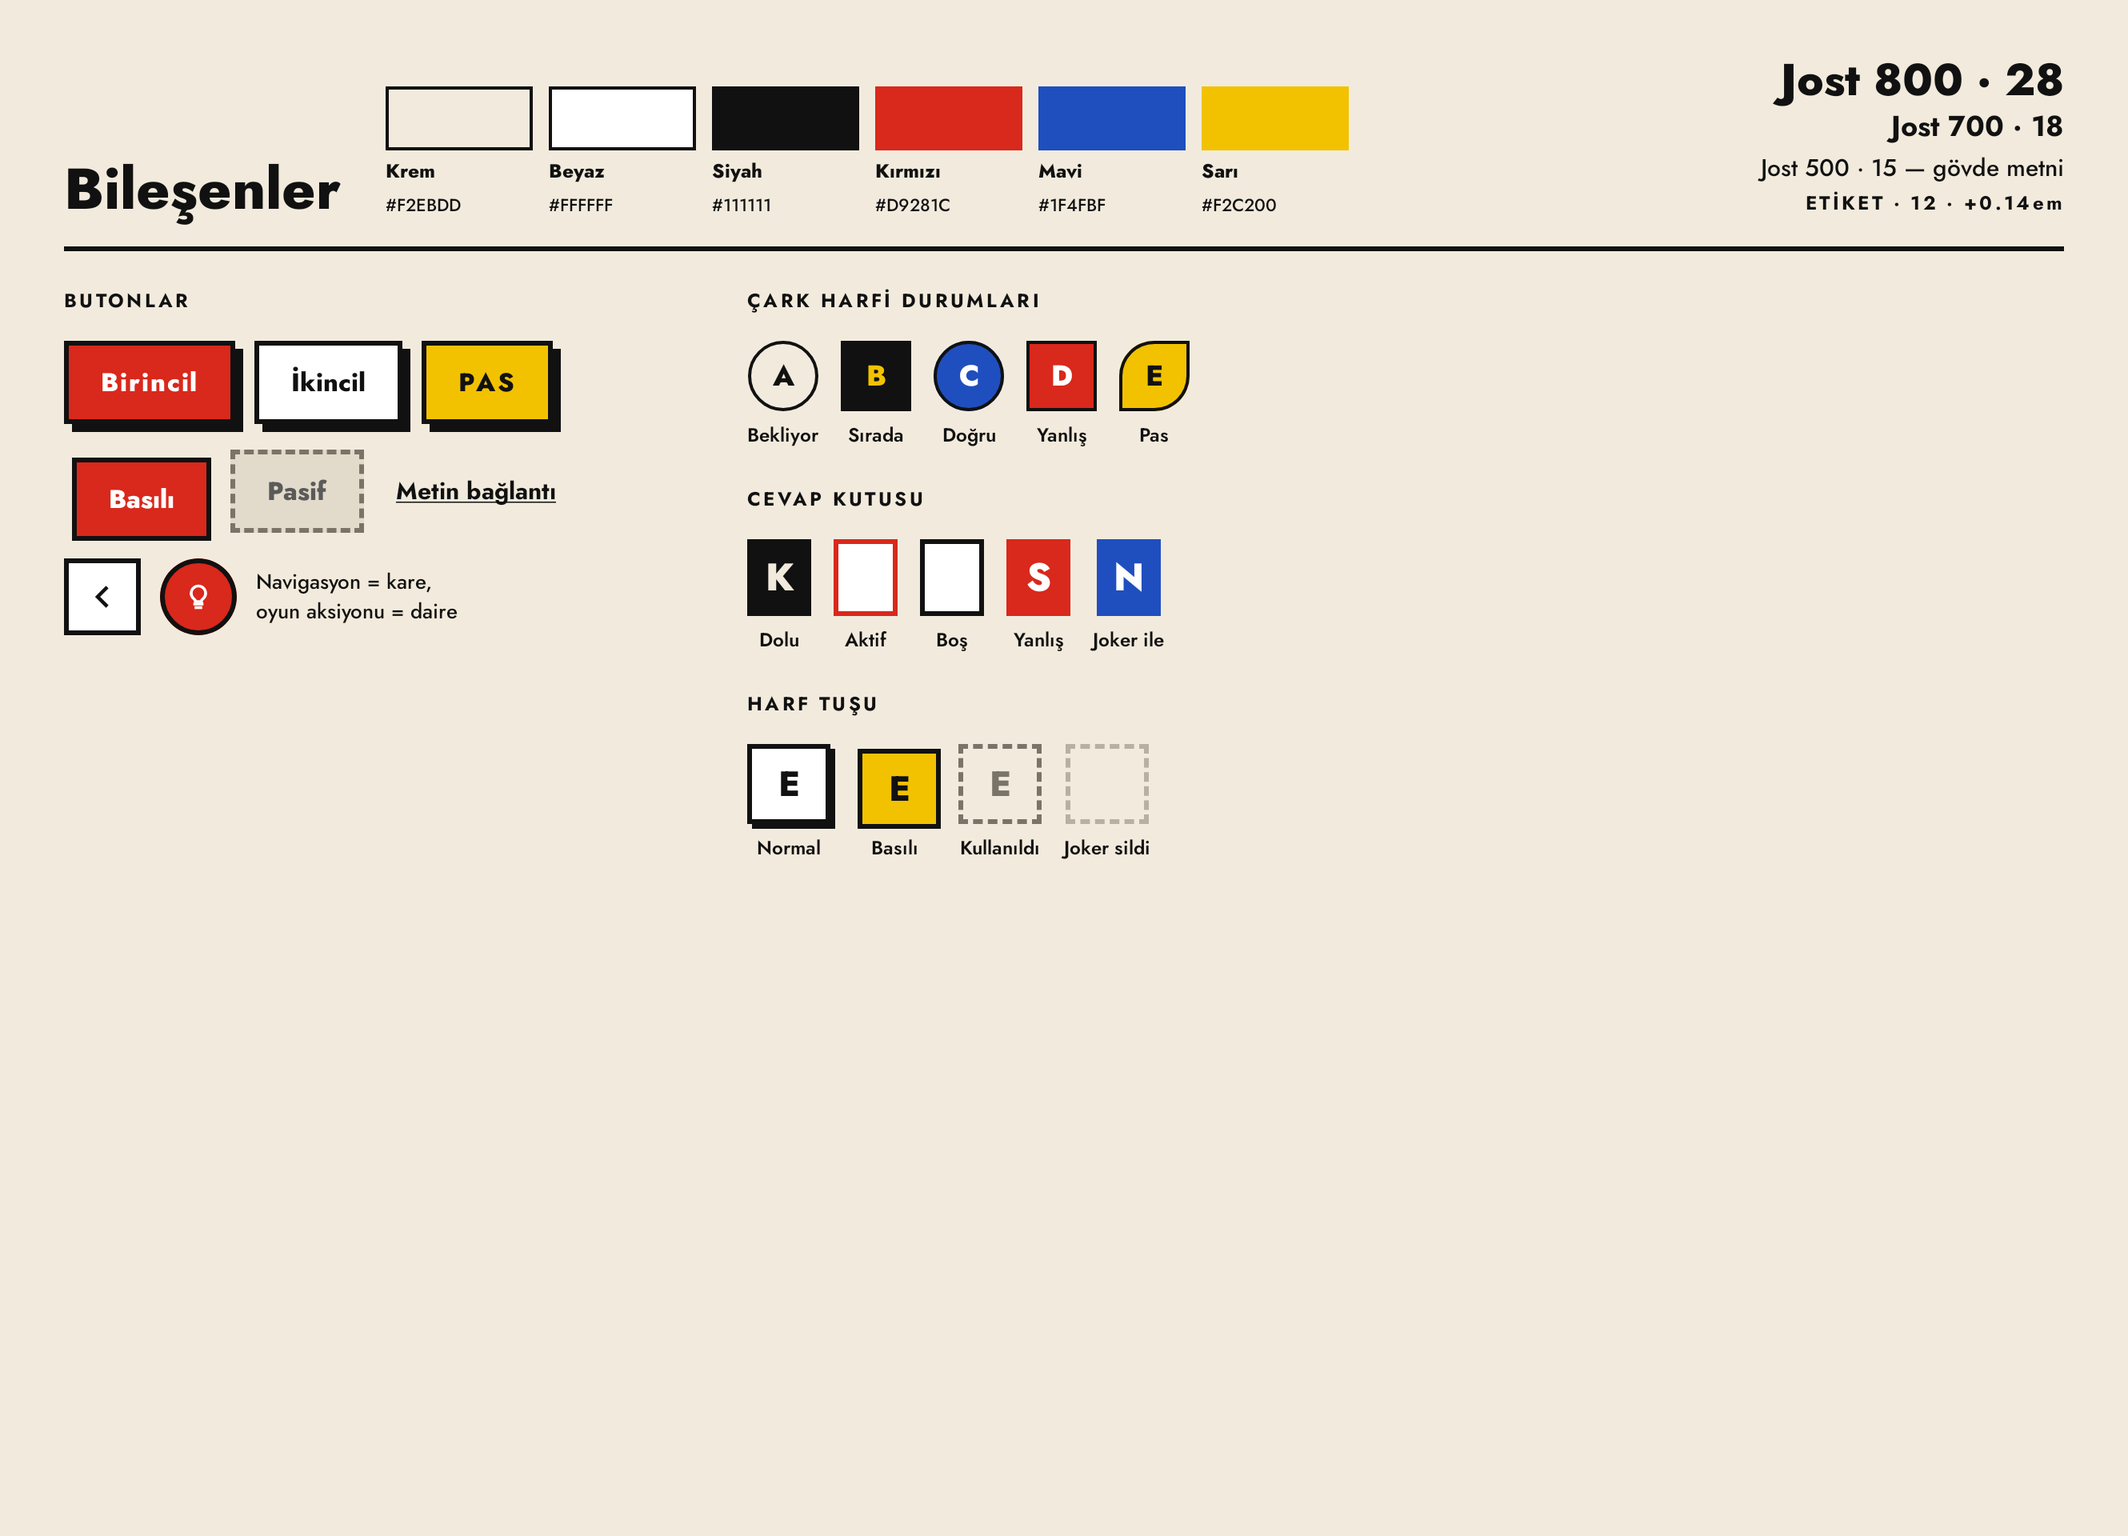
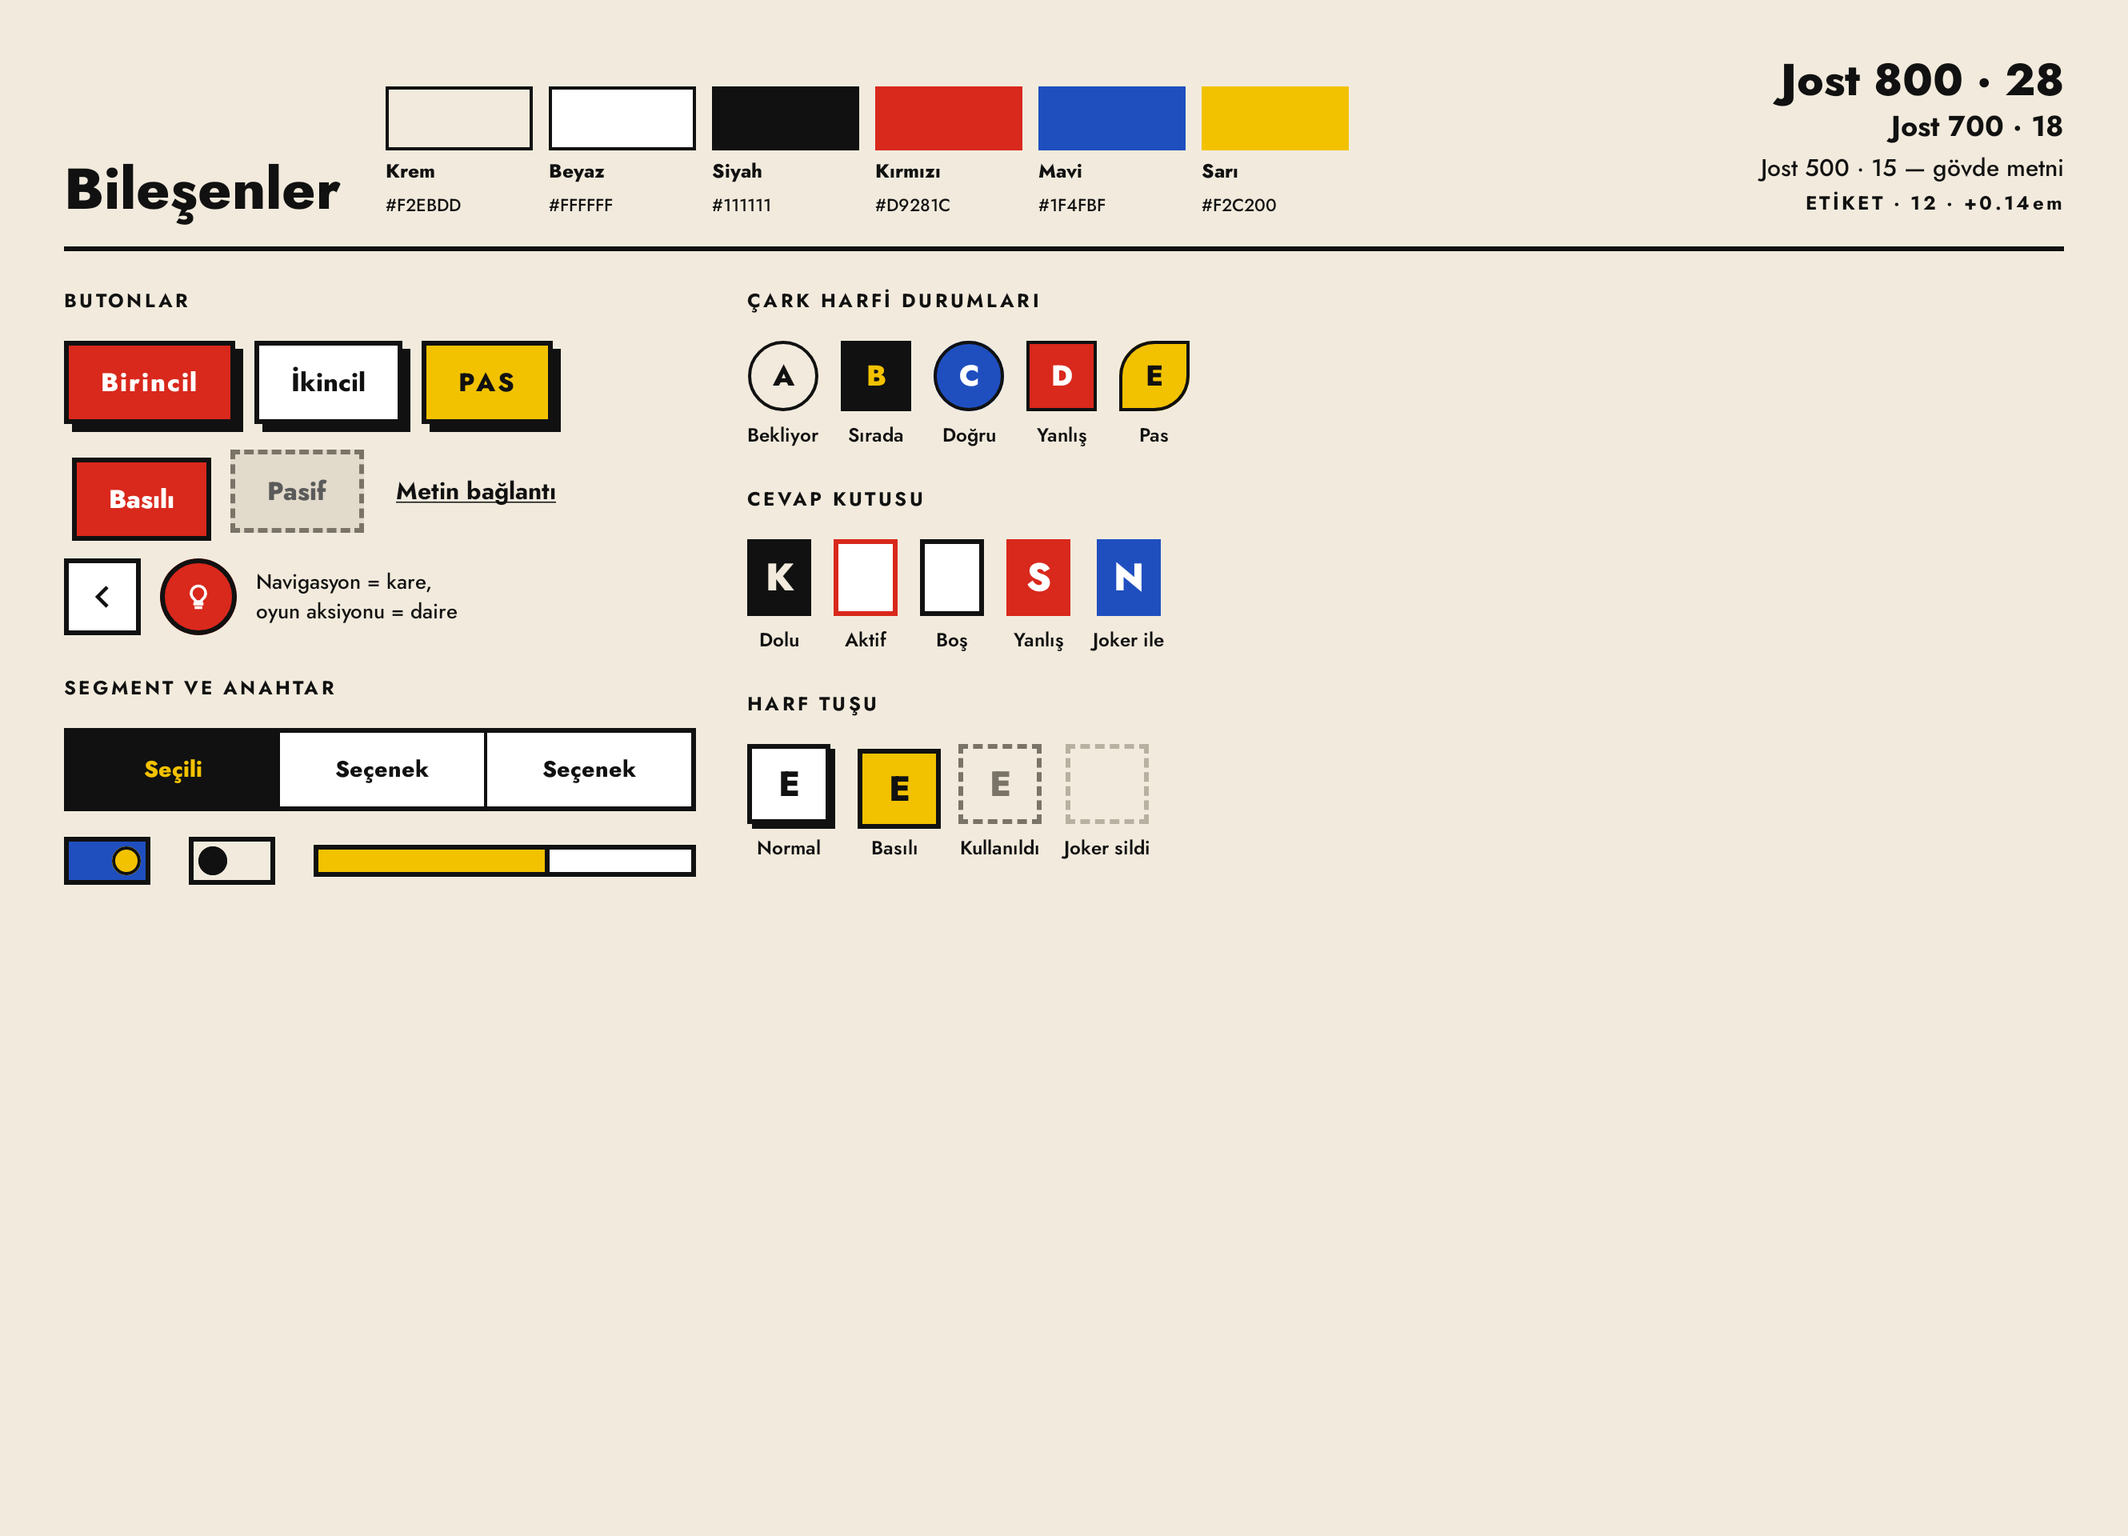
feat(designsystem): add SegmentedControl, LexiSwitch and ProgressBar
- SegmentedControl: 3dp ink frame on white, equal segments whose
  dividers are part of the segment like the CSS border-left (2dp, 3dp
  for the mode picker); selected = ink with yellow title and cream
  subtitle. Optional subtitle line (16/800 + 12/500, lh 1.1, 56dp).
  Tabs with selection semantics, light haptic + tap on select.
- LexiSwitch: 54 x 30, 3dp border; on = blue track with a yellow knob at
  27dp, off = cream with an ink knob at 3dp; Role.Switch toggleable with
  the same feedback. No knob animation: motion.md has none.
- ProgressBar: CSS content-box (track height + border on top: 8+2+2 on
  level cards, 12+2+2 in stats), fill color/track color per screen and
  an optional timer-style right edge; progress semantics.
- Gallery SEGMENT VE ANAHTAR row matches 16-components.png within 1px.

Changed region(s): [[0.0312, 0.4375, 0.3432, 0.5938]]

diff --git a/core/designsystem/src/commonMain/kotlin/dev/talhabayhan/lexi/core/designsystem/component/Controls.kt b/core/designsystem/src/commonMain/kotlin/dev/talhabayhan/lexi/core/designsystem/component/Controls.kt
@@ -1,0 +1,251 @@
+package dev.talhabayhan.lexi.core.designsystem.component
+
+import androidx.compose.foundation.BorderStroke
+import androidx.compose.foundation.background
+import androidx.compose.foundation.layout.Arrangement
+import androidx.compose.foundation.layout.Box
+import androidx.compose.foundation.layout.Column
+import androidx.compose.foundation.layout.Row
+import androidx.compose.foundation.layout.fillMaxHeight
+import androidx.compose.foundation.layout.fillMaxWidth
+import androidx.compose.foundation.layout.height
+import androidx.compose.foundation.layout.offset
+import androidx.compose.foundation.layout.padding
+import androidx.compose.foundation.layout.size
+import androidx.compose.foundation.layout.width
+import androidx.compose.foundation.selection.selectable
+import androidx.compose.foundation.selection.selectableGroup
+import androidx.compose.foundation.selection.toggleable
+import androidx.compose.material3.Text
+import androidx.compose.runtime.Composable
+import androidx.compose.runtime.Immutable
+import androidx.compose.ui.Alignment
+import androidx.compose.ui.Modifier
+import androidx.compose.ui.draw.drawBehind
+import androidx.compose.ui.geometry.Size
+import androidx.compose.ui.graphics.Color
+import androidx.compose.ui.semantics.ProgressBarRangeInfo
+import androidx.compose.ui.semantics.Role
+import androidx.compose.ui.semantics.progressBarRangeInfo
+import androidx.compose.ui.semantics.semantics
+import androidx.compose.ui.tooling.preview.Preview
+import androidx.compose.ui.unit.Dp
+import androidx.compose.ui.unit.dp
+import dev.talhabayhan.lexi.core.designsystem.feedback.LocalHaptics
+import dev.talhabayhan.lexi.core.designsystem.feedback.LocalSoundPlayer
+import dev.talhabayhan.lexi.core.designsystem.modifier.lexiSurface
+import dev.talhabayhan.lexi.core.designsystem.theme.LexiTheme
+import dev.talhabayhan.lexi.core.designsystem.theme.withCssLineHeight
+import dev.talhabayhan.lexi.core.domain.feedback.HapticKind
+import dev.talhabayhan.lexi.core.domain.feedback.SoundEffect
+
+/** One option of a [SegmentedControl]; [subtitle] adds the small second line ("3:00") of the mode picker. */
+@Immutable
+public data class Segment(val title: String, val subtitle: String? = null)
+
+/** Control sizes from the screens' HTML. */
+public object ControlDefaults {
+    /** 46: segmented control with one line (`08-notebook`, `16-components`). */
+    public val SegmentHeight: Dp = 46.dp
+
+    /** 56: segmented control with subtitles (`03-level-select` modes; dividers 3dp there). */
+    public val SegmentHeightWithSubtitle: Dp = 56.dp
+
+    /** Switch: 54 × 30, knob 18, knob inset 3. */
+    public val SwitchWidth: Dp = 54.dp
+    public val SwitchHeight: Dp = 30.dp
+    internal val KnobSize: Dp = 18.dp
+    internal val KnobInset: Dp = 3.dp
+
+    /** Progress bar content heights (borders come on top, CSS content-box). */
+    public val ProgressHeightThin: Dp = 8.dp
+    public val ProgressHeightThick: Dp = 12.dp
+
+    /** Line height of a segment with a subtitle (`line-height: 1.1`). */
+    internal const val SEGMENT_TWO_LINE_HEIGHT: Double = 1.1
+}
+
+/**
+ * Segmented control: 3dp ink frame on white, equal segments separated by [dividerWidth] ink lines (part of the
+ * segment, as the CSS `border-left`); selected = ink with yellow title (cream subtitle). Light haptic + tap on select.
+ */
+@Composable
+public fun SegmentedControl(
+    segments: List<Segment>,
+    selectedIndex: Int,
+    onSelect: (Int) -> Unit,
+    modifier: Modifier = Modifier,
+    height: Dp = ControlDefaults.SegmentHeight,
+    dividerWidth: Dp = LexiTheme.borders.thin,
+) {
+    val colors = LexiTheme.colors
+    val typography = LexiTheme.typography
+    val haptics = LocalHaptics.current
+    val sounds = LocalSoundPlayer.current
+    Row(
+        modifier = modifier
+            .lexiSurface(colors.white, BorderStroke(LexiTheme.borders.regular, colors.ink))
+            .selectableGroup(),
+    ) {
+        segments.forEachIndexed { index, segment ->
+            val selected = index == selectedIndex
+            Column(
+                modifier = Modifier
+                    .weight(1f)
+                    .height(height)
+                    .then(if (index > 0) Modifier.leftBorder(dividerWidth, colors.ink) else Modifier)
+                    .background(if (selected) colors.ink else colors.white)
+                    .selectable(selected = selected, role = Role.Tab, interactionSource = null, indication = null) {
+                        haptics.perform(HapticKind.Light)
+                        sounds.play(SoundEffect.Tap)
+                        onSelect(index)
+                    },
+                horizontalAlignment = Alignment.CenterHorizontally,
+                verticalArrangement = Arrangement.Center,
+            ) {
+                val titleColor = if (selected) colors.yellow else colors.ink
+                if (segment.subtitle == null) {
+                    Text(segment.title, style = typography.bodyStrong14, color = titleColor, maxLines = 1)
+                } else {
+                    val lineHeight = ControlDefaults.SEGMENT_TWO_LINE_HEIGHT
+                    Text(
+                        segment.title,
+                        style = typography.bodyStrong16.withCssLineHeight(lineHeight),
+                        color = titleColor,
+                    )
+                    Text(
+                        segment.subtitle,
+                        style = typography.caption12.withCssLineHeight(lineHeight),
+                        color = if (selected) colors.cream else colors.ink,
+                    )
+                }
+            }
+        }
+    }
+}
+
+/** A CSS `border-left` inside the element: drawn at the left edge, content inset by its width. */
+private fun Modifier.leftBorder(width: Dp, color: Color): Modifier = this
+    .drawBehind { drawRect(color, size = Size(width.toPx(), size.height)) }
+    .padding(start = width)
+
+/**
+ * Bauhaus switch, 54 × 30 with a 3dp border: on = blue track, yellow knob right; off = cream track, ink knob left.
+ * Give it a label through the row or `Modifier.semantics { contentDescription = … }`.
+ */
+@Composable
+public fun LexiSwitch(
+    checked: Boolean,
+    onCheckedChange: (Boolean) -> Unit,
+    modifier: Modifier = Modifier,
+    enabled: Boolean = true,
+) {
+    val colors = LexiTheme.colors
+    val haptics = LocalHaptics.current
+    val sounds = LocalSoundPlayer.current
+    val trackInner = ControlDefaults.SwitchWidth - LexiTheme.borders.regular * 2
+    val knobOffset = if (checked) {
+        trackInner - ControlDefaults.KnobSize - ControlDefaults.KnobInset
+    } else {
+        ControlDefaults.KnobInset
+    }
+    Box(
+        modifier = modifier
+            .size(ControlDefaults.SwitchWidth, ControlDefaults.SwitchHeight)
+            .toggleable(
+                value = checked,
+                enabled = enabled,
+                role = Role.Switch,
+                interactionSource = null,
+                indication = null,
+            ) {
+                haptics.perform(HapticKind.Light)
+                sounds.play(SoundEffect.Tap)
+                onCheckedChange(it)
+            }
+            .lexiSurface(
+                if (checked) colors.blue else colors.cream,
+                BorderStroke(LexiTheme.borders.regular, colors.ink),
+            ),
+    ) {
+        Box(
+            Modifier
+                .offset(x = knobOffset, y = ControlDefaults.KnobInset)
+                .size(ControlDefaults.KnobSize)
+                .lexiSurface(
+                    color = if (checked) colors.yellow else colors.ink,
+                    border = BorderStroke(LexiTheme.borders.thin, colors.ink),
+                    shape = LexiTheme.shapes.circle,
+                ),
+        )
+    }
+}
+
+/**
+ * Progress bar with a CSS content-box: [height] is the track, the [borderWidth] frame comes on top (8 + 2 + 2 on the
+ * level cards, 12 + 2 + 2 in stats). [fillEdge] adds the timer-style ink right edge to the fill (`16-components`).
+ */
+@Composable
+public fun ProgressBar(
+    progress: Float,
+    modifier: Modifier = Modifier,
+    height: Dp = ControlDefaults.ProgressHeightThin,
+    borderWidth: Dp = LexiTheme.borders.thin,
+    borderColor: Color = LexiTheme.colors.ink,
+    trackColor: Color = LexiTheme.colors.white,
+    fillColor: Color = LexiTheme.colors.blue,
+    fillEdge: Boolean = false,
+) {
+    val fraction = progress.coerceIn(0f, 1f)
+    Box(
+        modifier = modifier
+            .height(height + borderWidth * 2)
+            .semantics { progressBarRangeInfo = ProgressBarRangeInfo(fraction, 0f..1f) }
+            .lexiSurface(trackColor, BorderStroke(borderWidth, borderColor)),
+    ) {
+        if (fraction > 0f) {
+            Row(Modifier.fillMaxWidth(fraction).fillMaxHeight()) {
+                Box(Modifier.weight(1f).fillMaxHeight().background(fillColor))
+                if (fillEdge) Box(Modifier.width(borderWidth).fillMaxHeight().background(borderColor))
+            }
+        }
+    }
+}
+
+// design sample, not user-facing
+@Preview(widthDp = 390)
+@Composable
+private fun ControlsPreview() {
+    LexiTheme(reducedMotion = false) {
+        Column(
+            modifier = Modifier.background(LexiTheme.colors.cream).padding(LexiTheme.dimens.gap20),
+            verticalArrangement = Arrangement.spacedBy(LexiTheme.dimens.gap16),
+        ) {
+            SegmentedControl(
+                segments = listOf(Segment("Tekrar · 24"), Segment("Tümü · 412"), Segment("Zor · 31")),
+                selectedIndex = 0,
+                onSelect = {},
+            )
+            SegmentedControl(
+                segments = listOf(
+                    Segment("Klasik", "3:00"),
+                    Segment("Pratik", "süresiz"),
+                    Segment("Hardcore", "tek hata"),
+                ),
+                selectedIndex = 0,
+                onSelect = {},
+                height = ControlDefaults.SegmentHeightWithSubtitle,
+                dividerWidth = LexiTheme.borders.regular,
+            )
+            Row(horizontalArrangement = Arrangement.spacedBy(LexiTheme.dimens.gap24)) {
+                LexiSwitch(checked = true, onCheckedChange = {})
+                LexiSwitch(checked = false, onCheckedChange = {})
+            }
+            ProgressBar(
+                progress = 0.48f,
+                fillColor = LexiTheme.colors.ink,
+                height = ControlDefaults.ProgressHeightThick,
+            )
+        }
+    }
+}

diff --git a/core/designsystem/src/commonMain/kotlin/dev/talhabayhan/lexi/core/designsystem/gallery/GallerySections.kt b/core/designsystem/src/commonMain/kotlin/dev/talhabayhan/lexi/core/designsystem/gallery/GallerySections.kt
@@ -4,6 +4,7 @@ import androidx.compose.foundation.layout.Arrangement
 import androidx.compose.foundation.layout.Column
 import androidx.compose.foundation.layout.ColumnScope
 import androidx.compose.foundation.layout.Row
+import androidx.compose.foundation.layout.fillMaxWidth
 import androidx.compose.foundation.layout.padding
 import androidx.compose.foundation.layout.width
 import androidx.compose.material3.Text
@@ -22,9 +23,13 @@ import dev.talhabayhan.lexi.core.designsystem.component.LetterKey
 import dev.talhabayhan.lexi.core.designsystem.component.LetterKeyState
 import dev.talhabayhan.lexi.core.designsystem.component.LexiButton
 import dev.talhabayhan.lexi.core.designsystem.component.LexiButtonVariant
+import dev.talhabayhan.lexi.core.designsystem.component.LexiSwitch
 import dev.talhabayhan.lexi.core.designsystem.component.LexiTextLink
 import dev.talhabayhan.lexi.core.designsystem.component.LocalForcePressed
 import dev.talhabayhan.lexi.core.designsystem.component.NavSquareButton
+import dev.talhabayhan.lexi.core.designsystem.component.ProgressBar
+import dev.talhabayhan.lexi.core.designsystem.component.Segment
+import dev.talhabayhan.lexi.core.designsystem.component.SegmentedControl
 import dev.talhabayhan.lexi.core.designsystem.component.WheelLetter
 import dev.talhabayhan.lexi.core.designsystem.component.WheelLetterState
 import dev.talhabayhan.lexi.core.designsystem.icon.LexiIcons
@@ -74,6 +79,28 @@ internal fun ColumnScope.GalleryColumnOne() {
         Text(
             "Navigasyon = kare,\noyun aksiyonu = daire",
             style = LexiTheme.typography.caption13.withCssLineHeight(GallerySpec.NOTE_LINE_HEIGHT),
+        )
+    }
+    SectionLabel("SEGMENT VE ANAHTAR", topMargin = LexiTheme.dimens.gap8)
+    SegmentedControl(
+        segments = listOf(Segment("Seçili"), Segment("Seçenek"), Segment("Seçenek")),
+        selectedIndex = 0,
+        onSelect = {},
+        modifier = Modifier.fillMaxWidth(),
+    )
+    Row(
+        horizontalArrangement = Arrangement.spacedBy(LexiTheme.dimens.gap24),
+        verticalAlignment = Alignment.CenterVertically,
+    ) {
+        LexiSwitch(checked = true, onCheckedChange = {})
+        LexiSwitch(checked = false, onCheckedChange = {})
+        ProgressBar(
+            progress = GallerySpec.DEMO_PROGRESS,
+            height = GallerySpec.demoProgressHeight,
+            borderWidth = LexiTheme.borders.regular,
+            fillColor = LexiTheme.colors.yellow,
+            fillEdge = true,
+            modifier = Modifier.weight(1f),
         )
     }
 }

diff --git a/core/designsystem/src/commonMain/kotlin/dev/talhabayhan/lexi/core/designsystem/gallery/ComponentGallery.kt b/core/designsystem/src/commonMain/kotlin/dev/talhabayhan/lexi/core/designsystem/gallery/ComponentGallery.kt
@@ -145,6 +145,8 @@ internal object GallerySpec {
     val demoChipSize = 44.dp
     val demoSlotLetterSize = 24.sp
     val demoKeyWidth = 52.dp
+    val demoProgressHeight = 14.dp
+    const val DEMO_PROGRESS = 0.62f
     const val NOTE_LINE_HEIGHT = 1.4
 }
 
